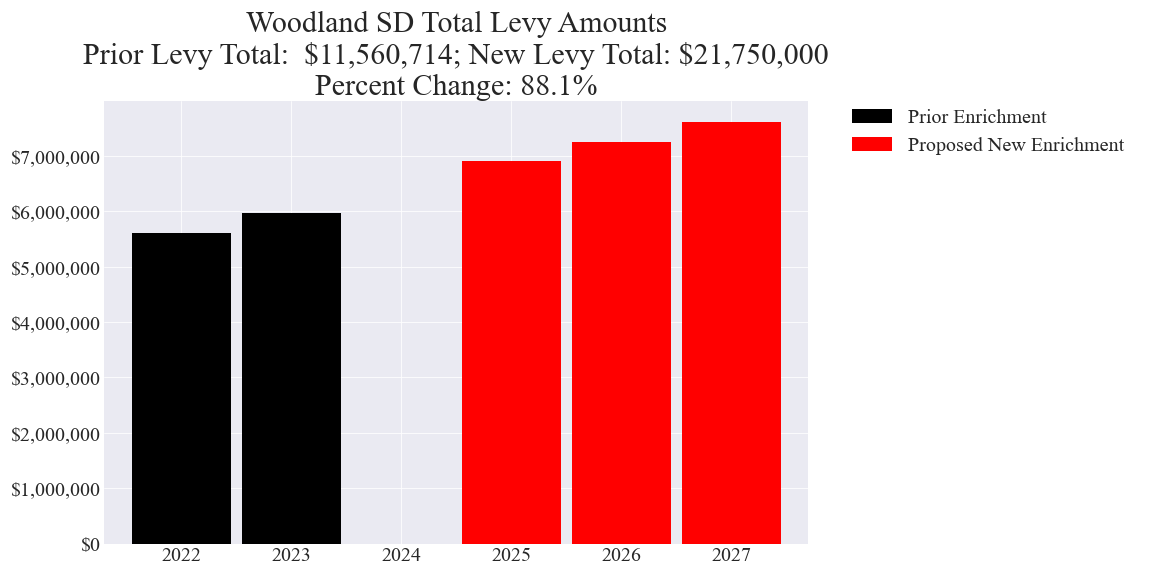
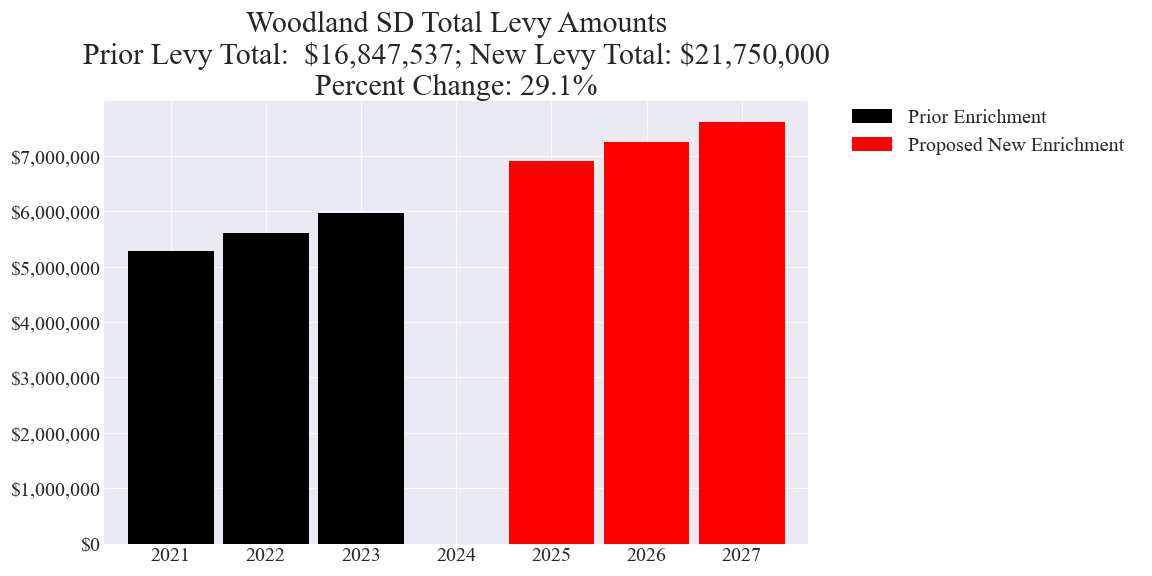
Updated Woodland SD's charts

Changed region(s): [[0.0938, 0.2188, 0.6562, 1.0], [0.2812, 0.0625, 0.7188, 0.1562], [0.6562, 0.2188, 0.6875, 0.9375]]

diff --git a/_includes/cost_estimates/20240213/Woodland_Enrichment_20240213_Enhanced.html b/_includes/cost_estimates/20240213/Woodland_Enrichment_20240213_Enhanced.html
@@ -19,7 +19,7 @@
 	totalLevyCostParcel = sampleParcelPOF * totalLevyCost;
 	levyYears = 3;
 	averageTotalLevyCostParcel = totalLevyCostParcel / levyYears;
-	totalLevyPriorCost = 11560714;
+	totalLevyPriorCost = 16847537.0;
 	totalLevyPriorCostParcel = sampleParcelPOF * totalLevyPriorCost;
 	averageTotalLevyPriorCostParcel = totalLevyPriorCostParcel / levyYears;
 	// POF Annual Change Percent
@@ -37,6 +37,7 @@
 		data.addColumn('number', 'New Levy Amount');
 
 		data.addRows([
+			['2021', 5286823, 0],
 			['2022', 5597921, 0],
 			['2023', 5962793, 0],
 			['2024', 0, 0],
